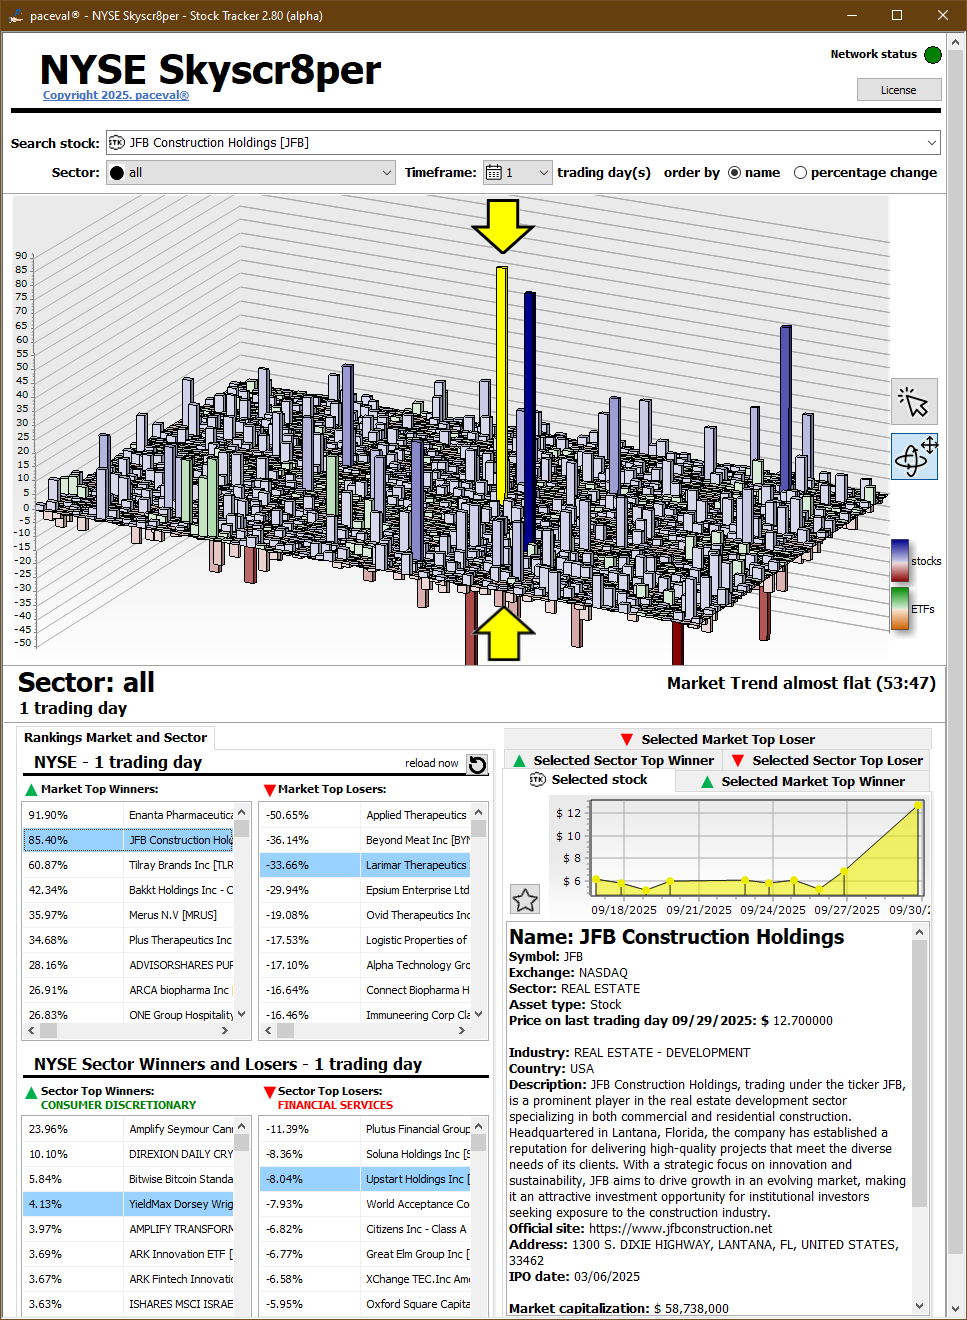
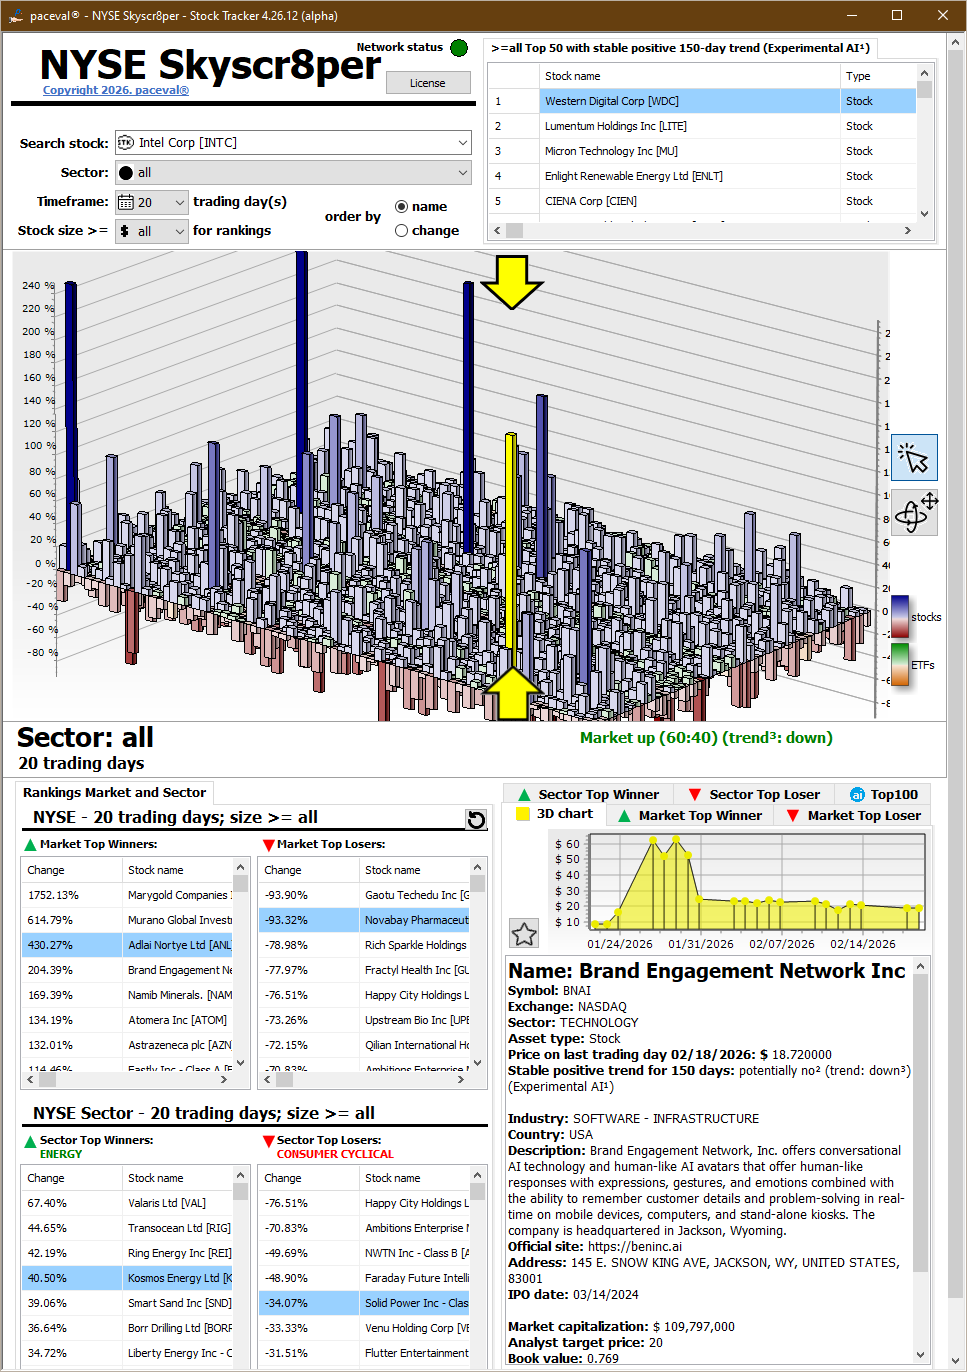
Updated Skyscr8per to version 4.26.12 alpha

diff --git a/new projects/Skyscr8per – Stock Tracker/readme.md b/new projects/Skyscr8per – Stock Tracker/readme.md
@@ -1,6 +1,6 @@
 # 🏙 NYSE Skyscr8per – A New Perspective on the Market
 
-**Version:** 2.82 alpha  
+**Version:** 4.26.12 alpha  
 **License:** Single-user demo license 
 **Website:** [paceval.com/skyscr8per](https://paceval.com/skyscr8per)  
 **Contact:** info@paceval.com  
@@ -9,23 +9,58 @@
 
 ## 📌 What is NYSE Skyscr8per?
 
-**NYSE Skyscr8per** is a cutting-edge visualization tool that lets you **see the entire New York Stock Exchange in one immersive view**.
+**NYSE Skyscr8per** is a market visualization and analysis application that lets you see the entire New York Stock Exchange as an interactive 3D landscape. It turns thousands of daily price movements into a spatial view that can be explored by sector and by ranking and by individual stock.
 
-This technology demo transforms traditional financial data into **a spatial experience** - intuitive, interactive, and instantly comprehensible.
+The goal is simple: reduce market complexity and make it immediately visible what is moving and which sectors drive the movement and which stocks stand out over time.
+
+
+## Key Features
+
+**NYSE Skyscr8per** provides a unique 3D visualization of all NYSE-listed stocks and ETFs. It shows clear day to day price changes across the full market and enables interactive exploration without losing context.
+
+The application includes interactive rankings of the biggest winners and losers for the full exchange and for each sector. It also provides classic 2D charts and market trend views and detailed stock or ETF information for selected stocks.
+
+You can filter dynamically by sector including an option to create your own Favorites sector to collect and track selected stocks in a personalized view.
+
+Timeframes are selectable from 1 to 250 trading days which supports short and long term trend inspection. Sorting can be switched between name based and percentage based ordering to instantly understand relative movement.
+
+
+## Experimental AI: 150 Day Stability and Best Potential
+
+**NYSE Skyscr8per** includes an experimental AI feature that highlights stocks with a stable positive trend over long horizons. The intent is to surface candidates that look structurally strong over time rather than simply reacting to short term noise.
+
+This AI feature is designed as a decision support and prioritization aid for research workflows. It is not a promise of performance and it does not replace independent analysis.
+
+
+## License and Demo Mode
+
+**NYSE Skyscr8per** is publicly available as a technology demonstration and can be downloaded by anyone for Windows.
+
+A one time single user license unlocks the AI functionality and supports ongoing development and hosting and improvements. If no license is activated the application runs in demo mode but the AI feature is not available.
+
+
+## Download
+
+Download the Windows version above and find information about the current official version here:
+  
+https://paceval.com/skyscr8per/
 
 ---
 
 ## ✨ Features
 
-✅ **Favorites sector** - collect and track selected stocks in a personalized view
-✅ **3D Visualization** of all stocks and ETFs listed on the NYSE  
-✅ **Day-to-day price change tracking** across the full market  
-✅ **Interactive rankings** of top gainers and losers (by market or sector)  
-✅ **Classic 2D charts** for detailed stock/ETF tracking  
-✅ **Market trend analysis** over short or long timeframes (1–250 trading days)  
-✅ **Dynamic sector filtering** (e.g. Tech, Energy, Financials, etc.)  
-✅ **Flexible sorting** by name or % change  
-✅ **Visual clarity** of what’s moving - and who’s driving the movement  
+✅ **Favorites sector** – collect and track selected stocks in a personalized view  
+✅ **3D visualization** of all stocks and ETFs listed on the NYSE  
+✅ **Day to day price change tracking** across the full market  
+✅ **Interactive rankings** of top gainers and losers by market and by sector  
+✅ **Classic 2D charts** for detailed stock and ETF tracking  
+✅ **Market trend analysis** across selectable timeframes from 1 to 250 trading days  
+✅ **Dynamic sector filtering** such as Technology Energy Financials and others  
+✅ **Flexible sorting** by name or percentage change  
+✅ **Experimental AI trend detection** highlighting stocks with stable positive long term trends  
+✅ **Integrated market context view** enabling seamless navigation from full market to sector to single stock  
+✅ **Visual clarity** that makes it immediately visible what is moving and which stocks drive the movement
+
 
 ---
 
@@ -43,6 +78,18 @@ This technology demo transforms traditional financial data into **a spatial expe
 
 This app is part of an **ongoing technology demonstration** by [paceval®](https://paceval.com) and is offered with a **single-user license** to support future development, hosting, and upgrades.
 
+## ⚠ Disclaimer
+
+**NYSE Skyscr8per** is a technology demonstration and research tool.
+
+The application includes experimental artificial intelligence features that analyze historical market data and highlight patterns or trends. These outputs are provided for informational and educational purposes only.
+
+Nothing in this software constitutes investment advice financial advice or a recommendation to buy sell or hold any security.
+
+The software is provided "AS IS" without warranty of any kind either express or implied including but not limited to accuracy completeness or fitness for a particular purpose.
+
+Users are solely responsible for any decisions made based on the information provided by the application.
+
 ---
 
 ## 🚀 Getting Started
@@ -56,24 +103,28 @@ This app is part of an **ongoing technology demonstration** by [paceval®](https
 
 ## 📥 Latest Release
 
-👉 **[Download v2.82 alpha](https://github.com/paceval/paceval/tree/main/new%20projects/Skyscr8per%20%E2%80%93%20Stock%20Tracker)**  
-Release date: *24th of October 2025*  
+👉 **[Download v4.26.12 alpha](https://github.com/paceval/paceval/tree/main/new%20projects/Skyscr8per%20%E2%80%93%20Stock%20Tracker)**  
+Release date: *19th of February 2026*  
 Includes:
-- Added color scheme for ETFs
-- Direct selection of the stock to be displayed in the lists (double-click and menu item)
-- Added favorites sector 
-- Performance improvements for large sector sets
-- Optimized user interface for small sector sets
-- Small bugfixes
+- Added dedicated color scheme for ETFs to improve visual differentiation  
+- Enabled direct stock selection in lists via double click and menu action  
+- Introduced Favorites sector to collect and track selected stocks  
+- Improved performance when working with large sector datasets  
+- Optimized user interface for small sector views  
+- Implemented experimental AI trend detection for long term stability analysis  
+- Minor bug fixes and stability improvements
 
 ---
 
 ## 🛠 Roadmap
 
-- 🔄 Real-time data integration (live tickers)  
-- 🌐 Web-based 3D visualization  
-- 🧠 AI-based trend classification  
-- 🛡 Secure cloud sync (optional)
+- 📱 Native mobile applications for Apple iOS and Android with optimized touch interaction  
+- 🌐 Cloud based API offering for banks and financial service providers  
+- 🔄 Optional real time data integration with live market feeds  
+- 🧠 Extended AI analytics including multi factor trend classification and explainable scoring  
+- 🖥 Web based 3D visualization for browser access without local installation  
+- 🔐 Enterprise features such as role based access and secure data environments  
+- ⚡ Continuous performance and scalability improvements across larger market universes
 
 ---
 
